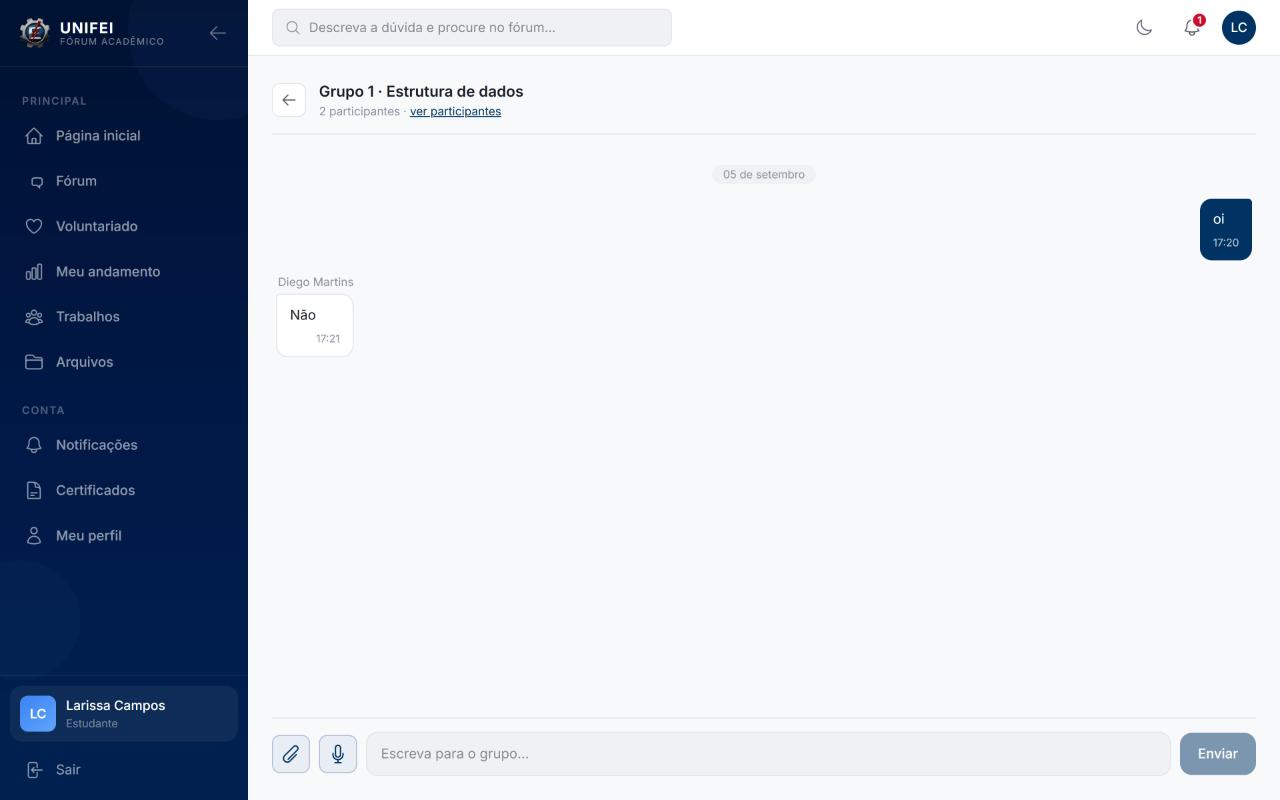
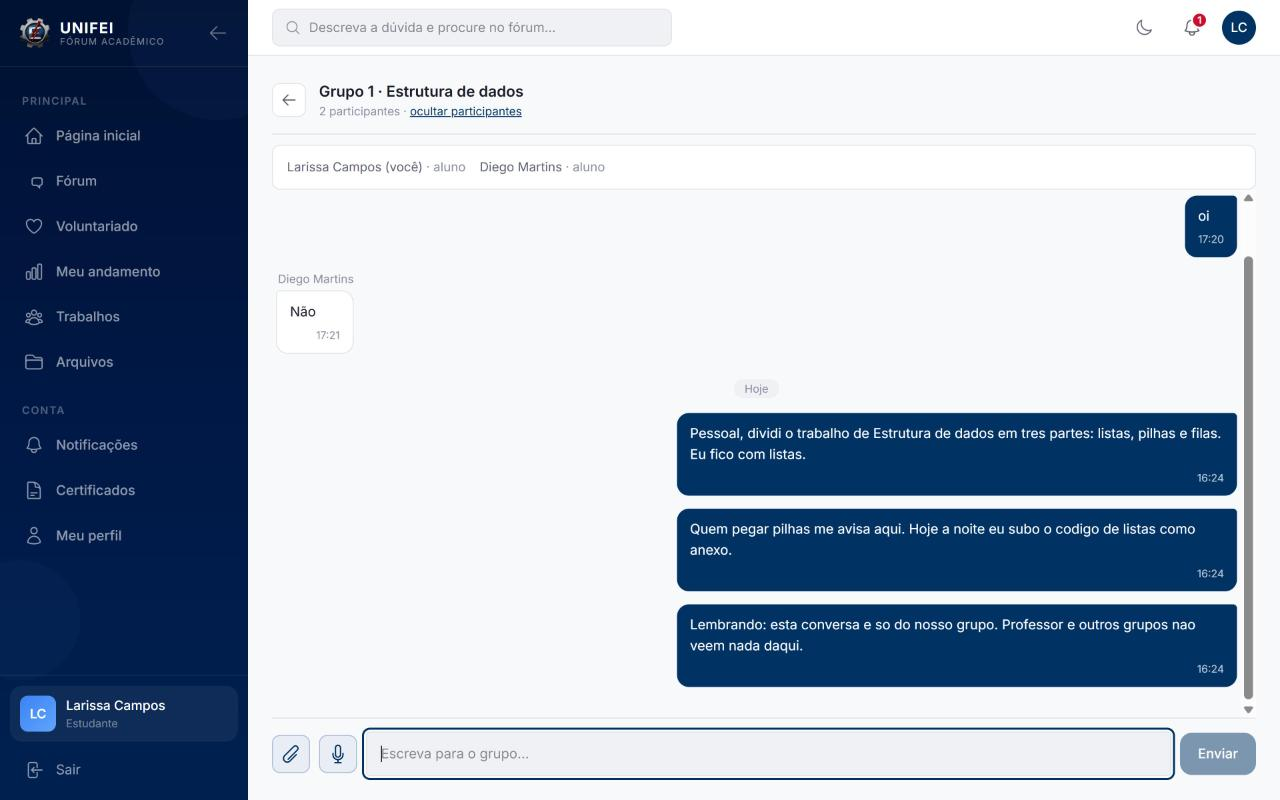
Chat do grupo e grupos exclusivos no tour

diff --git a/aluno.html b/aluno.html
@@ -81,7 +81,7 @@ const AREAS=[
  ["cp1","Fórum por disciplina","Você pergunta e colegas, monitores e professores respondem. A melhor resposta fica marcada e o que já foi resolvido fica guardado para a turma toda.","img/forum.jpg","Tela do fórum de uma disciplina"],
  ["cp2","Pedido de ajuda ao monitor","Você chama o monitor pela própria disciplina, em vez de depender de grupo de WhatsApp ou e-mail.","img/pedido-ajuda.png","Tela de pedido de ajuda"],
  ["cp3","Busca de dúvidas parecidas","Antes de perguntar, a busca mostra se alguém já resolveu a mesma dúvida, mesmo com outras palavras.","img/busca.jpg","Tela de busca do fórum"],
- ["cp4","Chat privado do grupo","Conversa só do seu grupo de trabalho, com texto, áudio e anexos. O professor não lê a conversa.","img/trabalhos-grupo.png","Tela de trabalhos em grupo"],
+ ["cp4","Chat privado do grupo","Cada grupo de trabalho tem a sua conversa, com texto, áudio e anexos, e só os integrantes do grupo a veem. O professor e os outros grupos não leem nada, e quem já está em um grupo não entra em outro.","img/grupo-chat.jpg|img/trabalhos-lista.jpg","Conversa do grupo e lista de grupos do trabalho"],
  ["cp5","Acervo de arquivos","Os arquivos dos trabalhos ficam reunidos em um só lugar, e cada um só aparece para quem tem permissão.","img/acervo.png","Tela do acervo de arquivos"],
  ["cp6","Notificações","Aviso na hora quando alguém responde sua dúvida ou quando algo precisa da sua atenção.","img/notificacoes.jpg","Tela de notificações"],
  ["cp7","Oportunidades de voluntariado","Vagas de ONGs e projetos, com inscrição e acompanhamento das suas horas pela plataforma.","img/voluntariado.jpg","Tela de oportunidades de voluntariado"],
@@ -114,7 +114,7 @@ function render(){
   <div class="item"><label for="canal">Hoje, como você costuma tirar dúvidas de uma disciplina?</label><select id="canal">${options(CANAIS)}</select></div></div>`;
   AREAS.forEach(([k,t,cap,img,alt],i)=>{
     h+=`<div class="card area"><h2><span class="n">${i+1}/${AREAS.length}</span>${t}</h2>
-    <figure class="shot"><img src="${img}" alt="${esc(alt)}" loading="lazy"><small>Toque na imagem para ampliar</small></figure>
+    ${img.split("|").map(u=>`<figure class="shot"><img src="${u}" alt="${esc(alt)}" loading="lazy"><small>Toque na imagem para ampliar</small></figure>`).join("")}
     <p class="cap">${cap}</p>
     <fieldset><legend class="hint" style="margin:0 0 6px">Quanto isso ajudaria você?</legend>${scale(k,[1,2,3,4,5])}
     <div class="ends"><span>1 = nada</span><span>5 = muito</span></div></fieldset></div>`;

diff --git a/index.html b/index.html
@@ -148,7 +148,8 @@ async function submit(){
 const TOUR=[
  ["img/forum.jpg","Fórum por disciplina","Dúvidas com resposta de colegas, monitores e professores."],
  ["img/pedido-ajuda.png","Pedido de ajuda","O aluno chama o monitor pela própria disciplina."],
- ["img/trabalhos-grupo.png","Trabalhos em grupo","Chat privado do grupo, com áudio e anexos."],
+ ["img/grupo-chat.jpg","Chat privado do grupo","Conversa só dos integrantes do grupo, com áudio e anexos. O professor não lê."],
+ ["img/trabalhos-lista.jpg","Trabalhos em grupo","Cada trabalho tem grupos com vagas, e cada aluno entra em um só."],
  ["img/painel-coordenacao.png","Painel da coordenação","Visão geral de atendimentos e atividade."],
  ["img/voluntariado.jpg","Voluntariado","Vagas de ONGs, inscrição e acompanhamento de horas."],
  ["img/certificados.jpg","Certificado","PDF com código que qualquer pessoa pode validar."]
